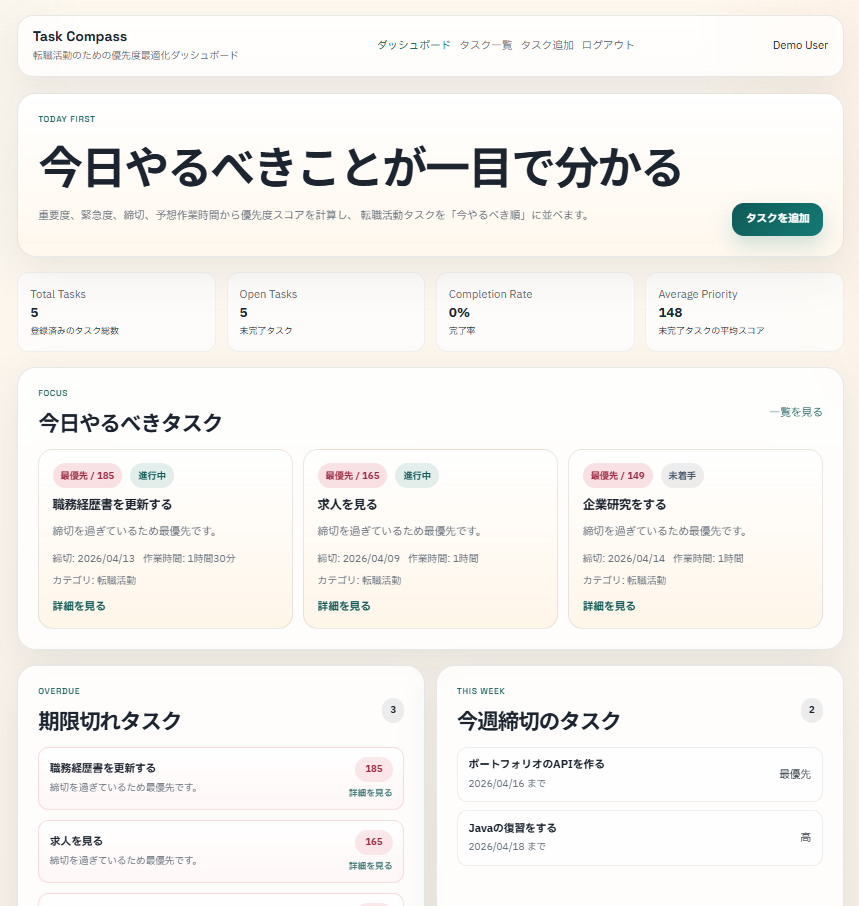
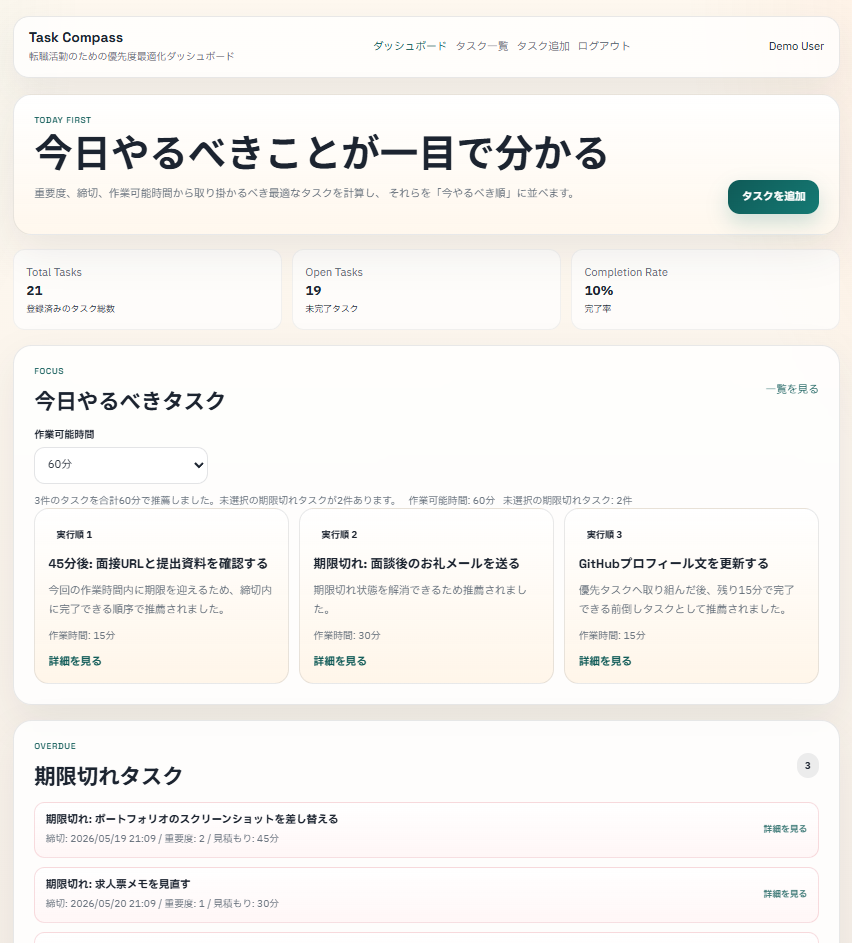
docs: ポートフォリオ向けREADMEと資料を整理

diff --git a/docs/technical-overview.md b/docs/technical-overview.md
@@ -58,7 +58,7 @@ H2 はローカル起動の手軽さを優先して採用し、PostgreSQL は本
 
 この変更は、推薦ロジック、デモデータ、フォーム、一覧・詳細画面、Mapper、テストに影響するため、単にカラム名を変えるだけでは済みませんでした。
 
-そのため、推薦ロジックの仕様を `priority-scoring.md` に整理したうえで、`TaskRecommendationService`、画面表示、Mapper、テストを同じPR内で追従させました。さらにその後の整理として、旧スコアリング関連の `PriorityScoringService` や `PriorityInsight`、`urgency` を削除し、現在の推薦ロジック中心の構成に揃えました。
+そのため、推薦ロジックの仕様を `recommendation-logic.md` に整理したうえで、`TaskRecommendationService`、画面表示、Mapper、テストを同じPR内で追従させました。さらにその後の整理として、旧スコアリング関連の `PriorityScoringService` や `PriorityInsight`、`urgency` を削除し、現在の推薦ロジック中心の構成に揃えました。
 
 ## 捨てた選択肢
 

diff --git a/docs/recommendation-logic.md b/docs/recommendation-logic.md
@@ -1,4 +1,4 @@
-# 優先度推薦ロジック設計
+# タスク推薦ロジック設計
 
 Task Compass では、従来の「タスク単体に優先度スコアを付けて並べる」方式から、
 ユーザーが選択した作業可能時間の中で「今日どのタスクを、どの順番で完了させるべきか」を提示する方式へ見直した。
